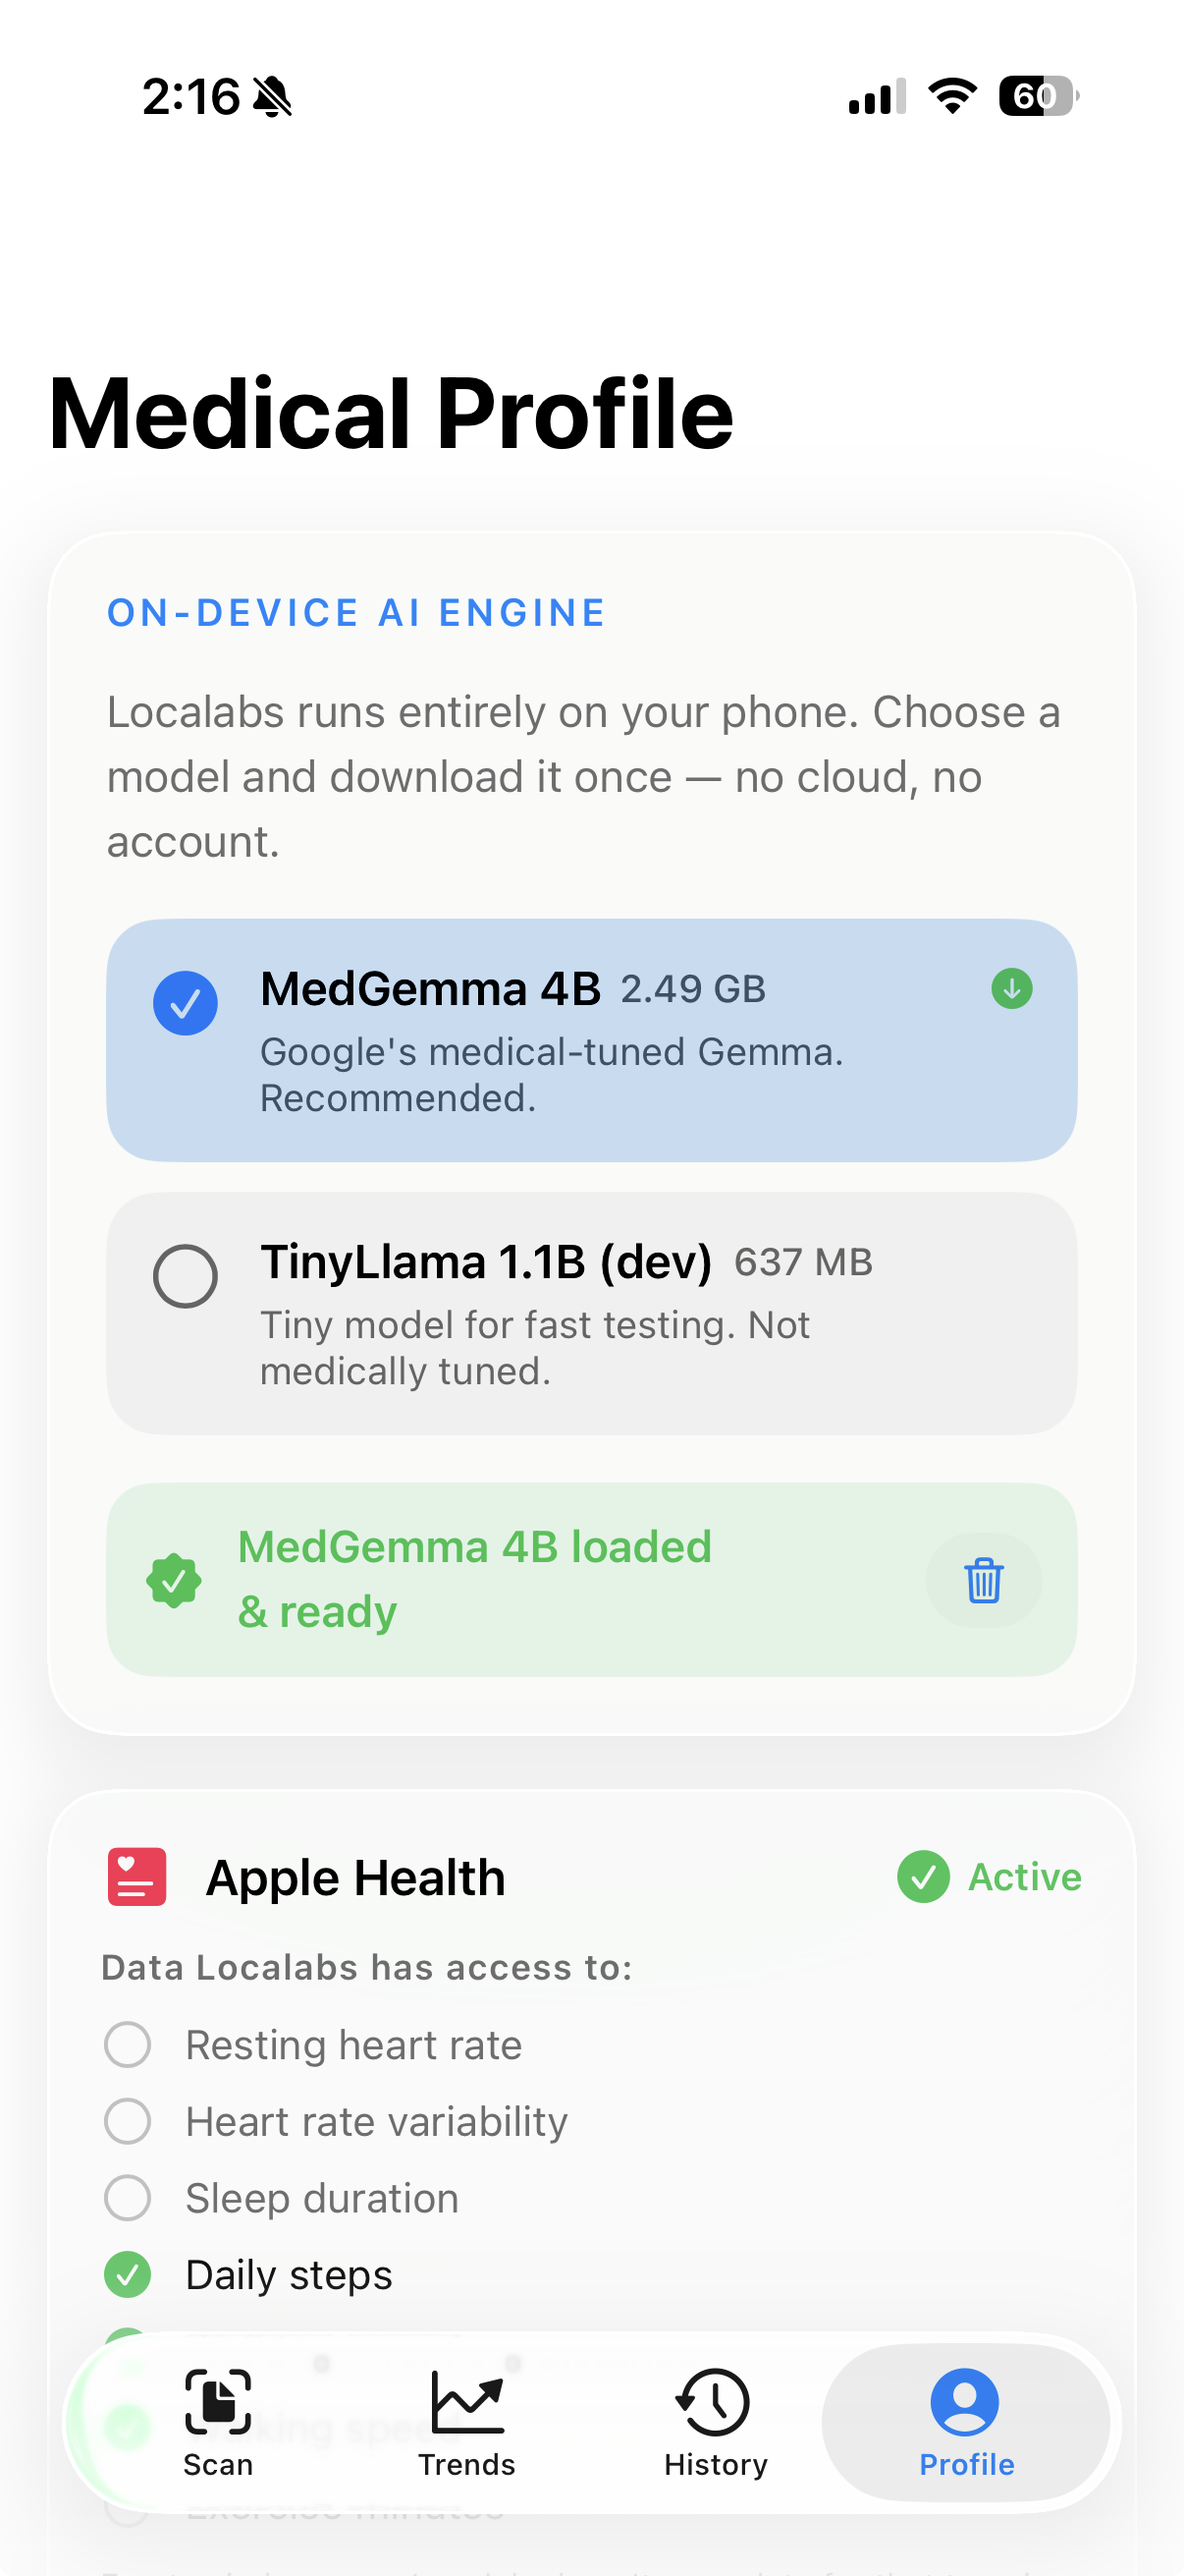
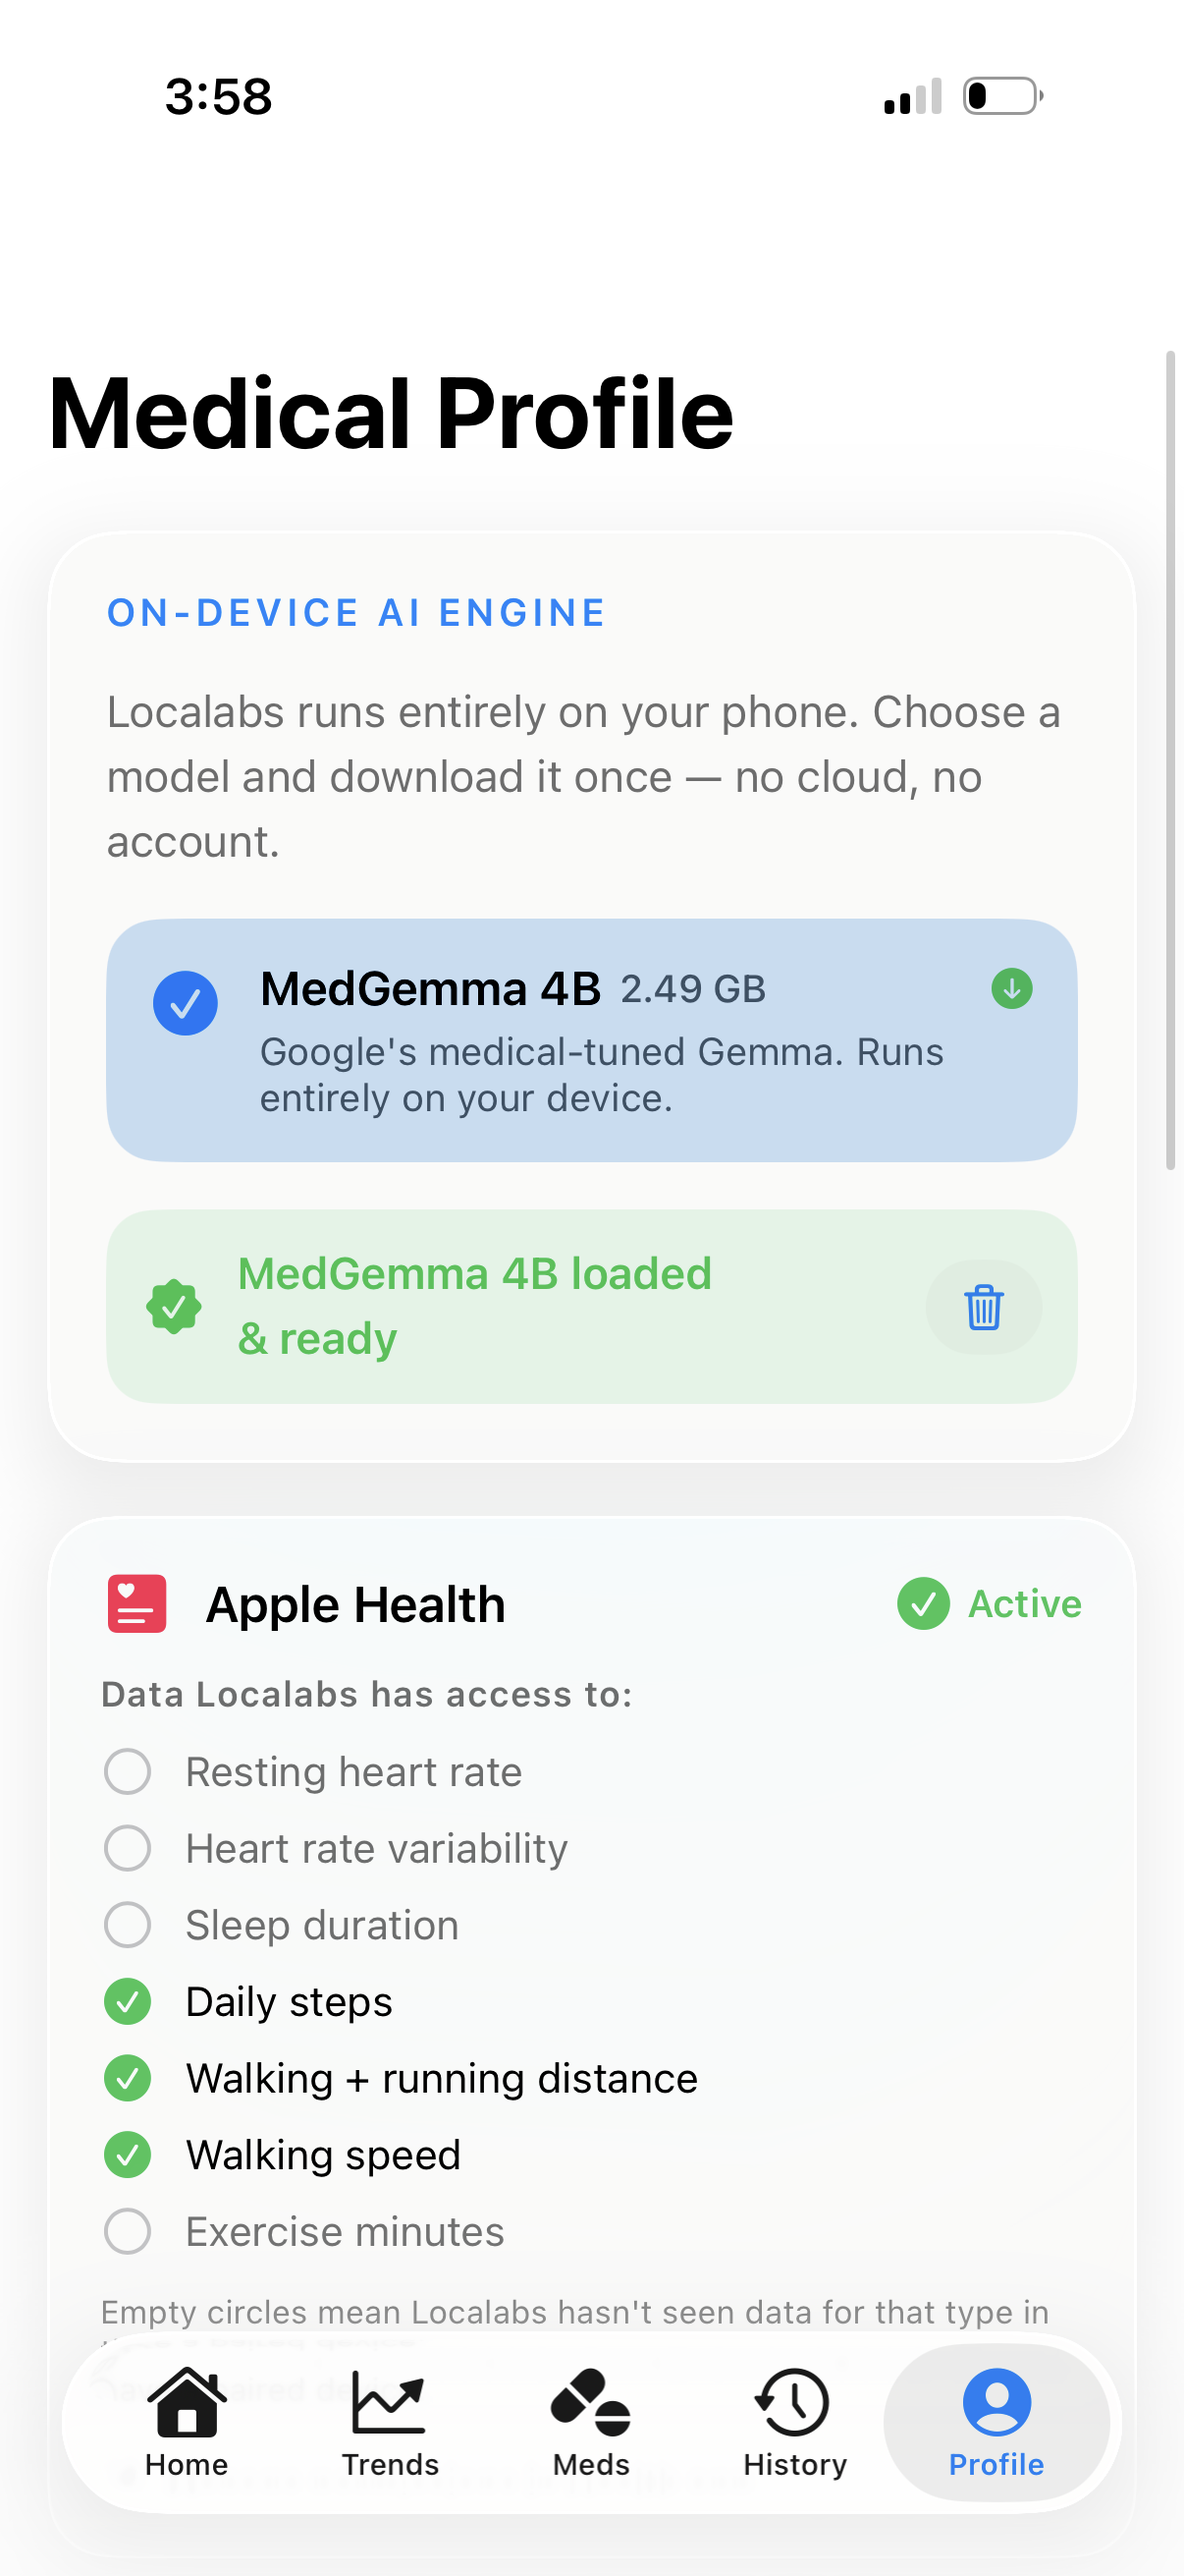
Refresh screenshots + add Beyond-translation section (trends/meds/visits)
- Replace the May screenshots with current ones: home (4-pane), the live
  orbit scanning UI, the translated report (hero), Ask Localabs chat, the
  profile/local-model shot, and Apple Health trends.
- New 'Beyond the read-out' section showcasing the features the site didn't
  mention: lab trends over time, medications & reminders, and doctor-visit
  prep — each with a current screenshot.

diff --git a/index.html b/index.html
@@ -95,7 +95,7 @@
         <div class="phone">
           <div class="notch"></div>
           <div class="phone-screen">
-            <img src="assets/dashboard-hero.png" alt="Hypertension Visit translated by Localabs" />
+            <img src="assets/report.png" alt="A lab report translated into plain language by Localabs" />
           </div>
         </div>
       </div>
@@ -194,7 +194,7 @@
           <div class="phone phone-sm">
             <div class="notch"></div>
             <div class="phone-screen">
-              <img src="assets/upload-report.png" alt="Upload Report screen with Scan Document, Choose from Photos, Choose a PDF" />
+              <img src="assets/home.png" alt="Localabs home — Scan Document, From Photos, From PDF, and Doctor Visit" />
             </div>
           </div>
         </div>
@@ -209,7 +209,7 @@
           <div class="phone phone-sm">
             <div class="notch"></div>
             <div class="phone-screen">
-              <img src="assets/dashboard-hero.png" alt="Translated Hypertension Visit dashboard with summary and Apple Health" />
+              <img src="assets/scanning.png" alt="Localabs writing the report section by section, on-device" />
             </div>
           </div>
         </div>
@@ -224,7 +224,7 @@
           <div class="phone phone-sm">
             <div class="notch"></div>
             <div class="phone-screen">
-              <img src="assets/ask-localabs.png" alt="Ask Localabs chat sheet with suggested questions" />
+              <img src="assets/chat.png" alt="Ask Localabs — chatting about a highlighted value from the report" />
             </div>
           </div>
         </div>
@@ -354,6 +354,71 @@
 
 
 <!-- ============================================================
+     BEYOND TRANSLATION — trends, meds, visits
+     ============================================================ -->
+<section id="beyond" class="how">
+  <div class="float-spark" style="top: 10%; left: 10%; animation-delay: 0.5s;" aria-hidden="true"></div>
+  <div class="float-spark" style="bottom: 16%; right: 8%; animation-delay: 1.8s;" aria-hidden="true"></div>
+  <div class="container">
+    <div class="section-head">
+      <span class="eyebrow reveal">Beyond the read-out</span>
+      <h2 class="reveal-blur delay-1">It tracks, reminds, and follows up.</h2>
+      <p class="reveal delay-2">One report is a translation. Many reports become a picture of your health over time — all on-device.</p>
+    </div>
+
+    <div class="how-tiles stagger-children">
+
+      <div class="how-tile glass shimmer reveal-tilt">
+        <div class="step-num"><span class="dot"></span> Trends</div>
+        <h3>Every marker, over time.</h3>
+        <p>Scan reports across months and Localabs charts each value, flags what's trending the wrong way, and reminds you to recheck.</p>
+        <div class="tile-stage">
+          <div class="halo"></div>
+          <div class="phone phone-sm">
+            <div class="notch"></div>
+            <div class="phone-screen">
+              <img src="assets/lab-trends.png" alt="Lab Reports trends — a marker charted across several reports with its normal range" />
+            </div>
+          </div>
+        </div>
+      </div>
+
+      <div class="how-tile glass shimmer reveal-tilt">
+        <div class="step-num"><span class="dot"></span> Meds</div>
+        <h3>Medications &amp; reminders.</h3>
+        <p>Add a medication straight from a report in one tap, set the times, and check off each dose — with a gentle nudge when one is due.</p>
+        <div class="tile-stage">
+          <div class="halo"></div>
+          <div class="phone phone-sm">
+            <div class="notch"></div>
+            <div class="phone-screen">
+              <img src="assets/meds.png" alt="Medications tab with today's doses and active medications" />
+            </div>
+          </div>
+        </div>
+      </div>
+
+      <div class="how-tile glass shimmer reveal-tilt">
+        <div class="step-num"><span class="dot"></span> Visits</div>
+        <h3>Ready for your visit.</h3>
+        <p>Localabs drafts questions to bring to your appointment, then checks in afterward to log what changed — new meds, instructions, the next date.</p>
+        <div class="tile-stage">
+          <div class="halo"></div>
+          <div class="phone phone-sm">
+            <div class="notch"></div>
+            <div class="phone-screen">
+              <img src="assets/visit-prep.png" alt="Doctor-visit prep — questions to ask and appointment details" />
+            </div>
+          </div>
+        </div>
+      </div>
+
+    </div>
+  </div>
+</section>
+
+
+<!-- ============================================================
      PRIVACY — anchor where dark transition happens
      ============================================================ -->
 <div class="privacy-anchor" id="privacy">
@@ -421,7 +486,7 @@
         <div class="phone">
           <div class="notch"></div>
           <div class="phone-screen">
-            <img src="assets/profile.png" alt="Medical Profile — on-device AI engine, model picker, Apple Health permissions" />
+            <img src="assets/profile.png" alt="Profile — the on-device model loaded, with privacy and Apple Health controls" />
           </div>
         </div>
       </div>
@@ -444,7 +509,7 @@
         <div class="phone">
           <div class="notch"></div>
           <div class="phone-screen">
-            <img src="assets/metric-detail.png" alt="30-day metric detail view with chart, status band and clinical context" />
+            <img src="assets/health-trends.png" alt="Apple Health trends — activity, sleep, vitals and mobility over 30 days" />
           </div>
         </div>
       </div>
